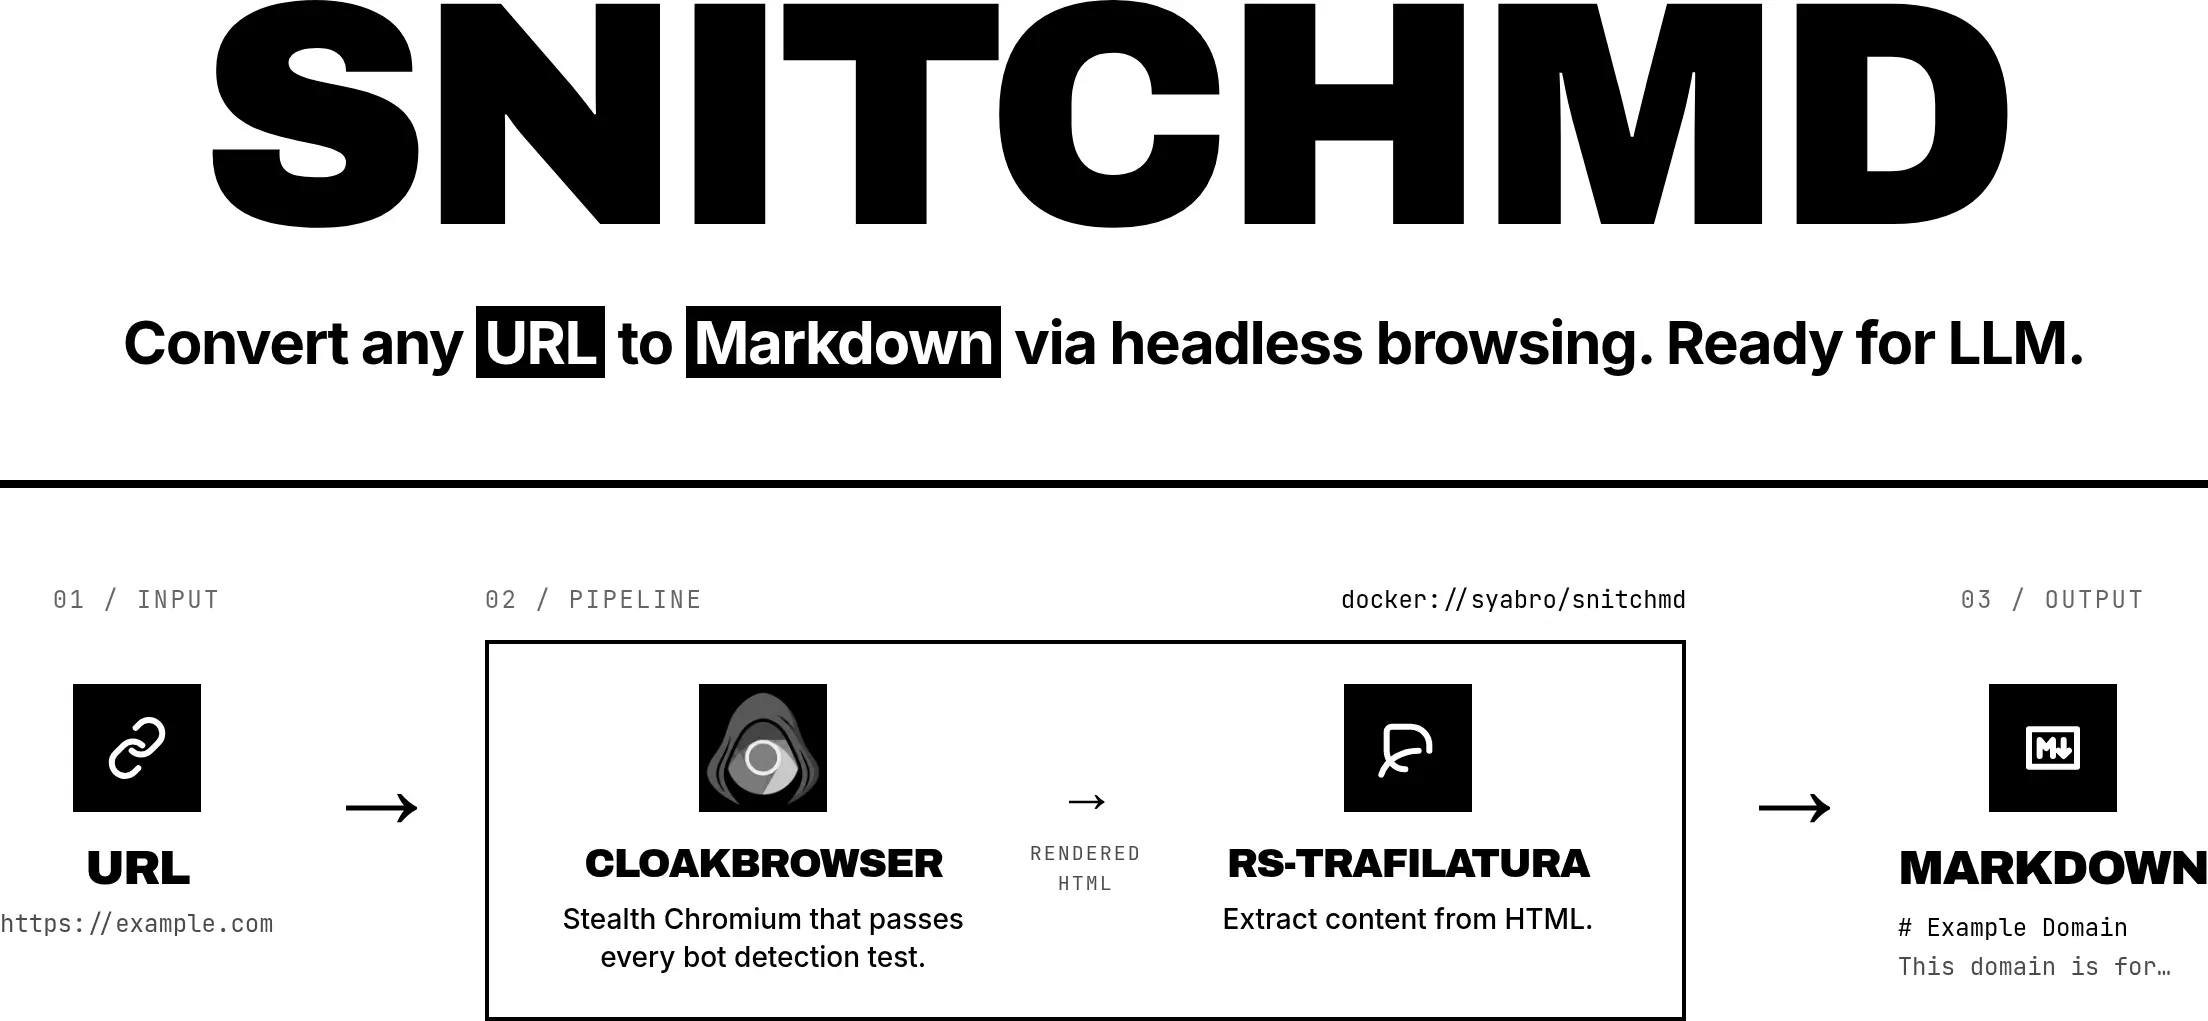
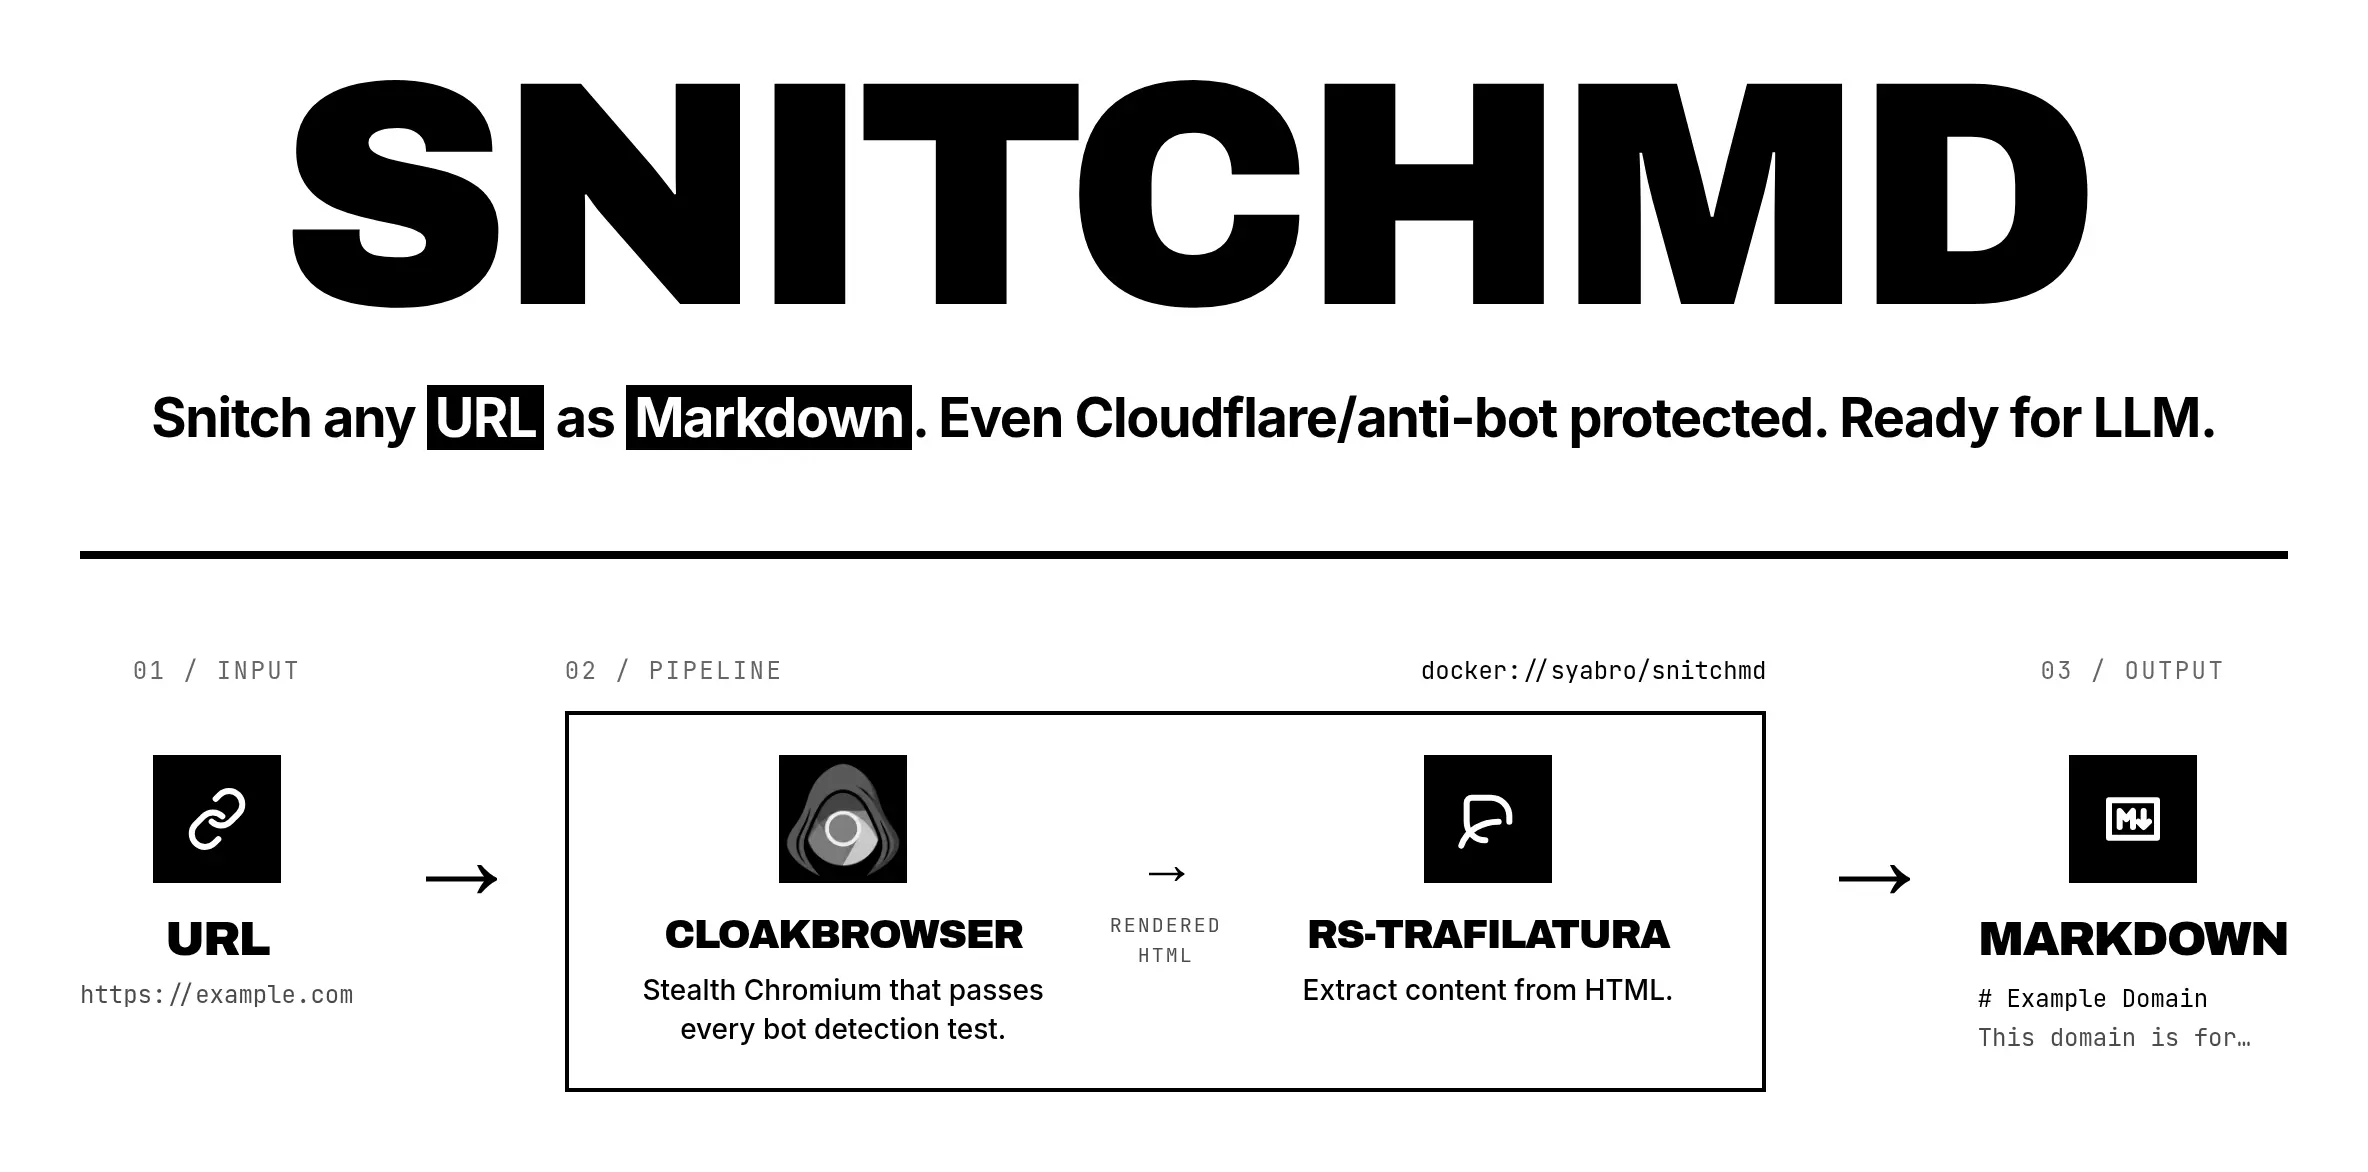
DOCS: add 40px padding around flow diagram for dark-theme readability

diff --git a/assets/snitchmd-flow.html b/assets/snitchmd-flow.html
@@ -22,8 +22,8 @@
 
       <!-- Hero -->
       <h1 class="display text-[10rem] uppercase leading-[0.85] break-words text-center">snitchmd</h1>
-      <p class="mt-6 text-3xl font-bold tracking-tight leading-snug whitespace-nowrap text-center">
-        Convert any <span class="hl">URL</span> to <span class="hl">Markdown</span> via headless browsing. Ready for LLM.
+      <p class="mt-6 text-[1.6875rem] font-bold tracking-tight leading-snug whitespace-nowrap text-center">
+        Snitch any <span class="hl">URL</span> as <span class="hl">Markdown</span>. Even Cloudflare/anti-bot protected. Ready for LLM.
       </p>
 
       <!-- Divider -->